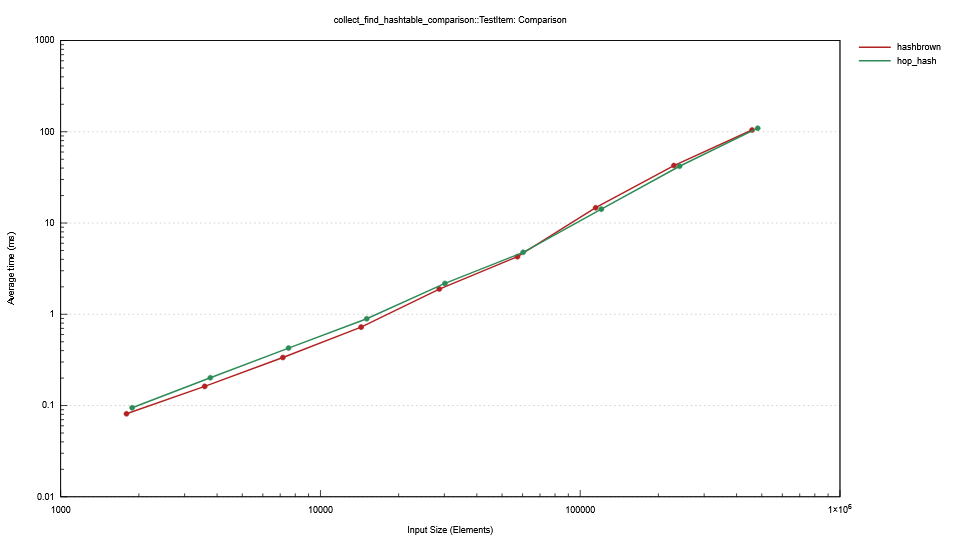
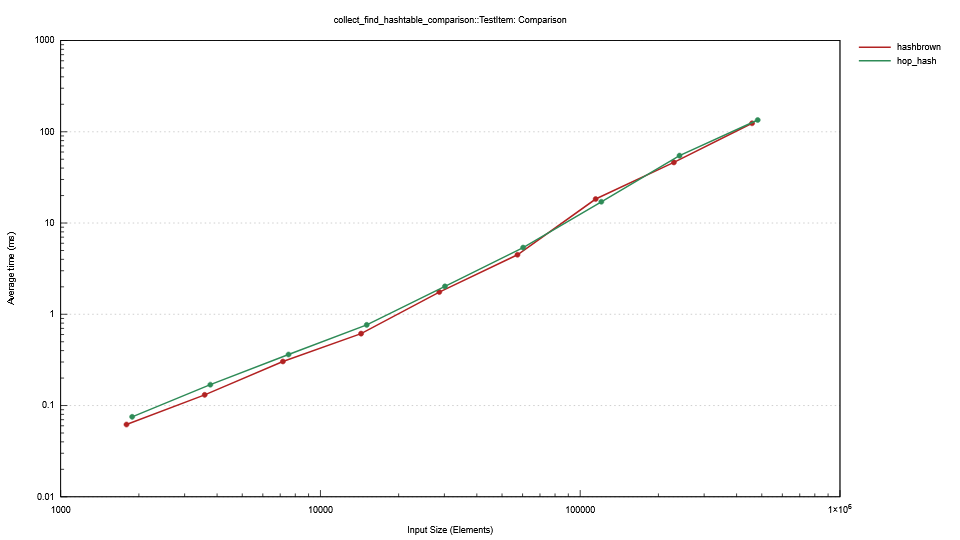
Redo methodology for collect/mixed workloads
- Collect now has two separate vectors, both randomized for insert/lookup. Unfortunately, this makes hop-hash look worse :(
- probabilistic now fills up to the table size before running the benchmark. This makes hop-hash look slightly better :)

diff --git a/benches/hashtable_comparison.rs b/benches/hashtable_comparison.rs
@@ -289,13 +289,21 @@ fn bench_collect_find<TestItem: KeyValuePair, const MAX_SIZE: usize>(c: &mut Cri
             })
             .collect::<Vec<(u64, TestItem)>>();
 
+        let lookup_hash_and_item = hash_and_item.clone();
+
         group.throughput(Throughput::Elements(hop_capacity as u64));
         group.bench_function("hop_hash", |b| {
             b.iter_batched(
-                || hash_and_item.clone(),
-                |hash_and_item| {
+                || {
+                    let mut hash_and_item = hash_and_item.clone();
+                    hash_and_item.shuffle(&mut SmallRng::from_os_rng());
+                    let mut lookup_hash_and_item = lookup_hash_and_item.clone();
+                    lookup_hash_and_item.shuffle(&mut SmallRng::from_os_rng());
+                    (hash_and_item, lookup_hash_and_item)
+                },
+                |(hash_and_item, lookup_hash_and_item)| {
                     let mut table = HopHashTable::<TestItem>::with_capacity(0);
-                    for (hash, item) in hash_and_item.iter().take(hop_capacity).cloned() {
+                    for (hash, item) in hash_and_item.into_iter().take(hop_capacity) {
                         match table.entry(hash, |v| v.eq_key(&item), |v| v.hash_key()) {
                             hop_hash::hash_table::Entry::Vacant(entry) => {
                                 entry.insert(item);
@@ -304,7 +312,7 @@ fn bench_collect_find<TestItem: KeyValuePair, const MAX_SIZE: usize>(c: &mut Cri
                         }
                     }
 
-                    for (hash, item) in hash_and_item.iter().take(hop_capacity) {
+                    for (hash, item) in lookup_hash_and_item.iter().take(hop_capacity) {
                         let result = table.find(*hash, |v| v.eq_key(item));
                         black_box(result);
                     }
@@ -317,10 +325,16 @@ fn bench_collect_find<TestItem: KeyValuePair, const MAX_SIZE: usize>(c: &mut Cri
         group.throughput(Throughput::Elements(hashbrown_capacity as u64));
         group.bench_function("hashbrown", |b| {
             b.iter_batched(
-                || hash_and_item.clone(),
-                |hash_and_item| {
+                || {
+                    let mut hash_and_item = hash_and_item.clone();
+                    hash_and_item.shuffle(&mut SmallRng::from_os_rng());
+                    let mut lookup_hash_and_item = lookup_hash_and_item.clone();
+                    lookup_hash_and_item.shuffle(&mut SmallRng::from_os_rng());
+                    (hash_and_item, lookup_hash_and_item)
+                },
+                |(hash_and_item, lookup_hash_and_item)| {
                     let mut table = HashbrownHashTable::<TestItem>::with_capacity(0);
-                    for (hash, item) in hash_and_item.iter().take(hashbrown_capacity).cloned() {
+                    for (hash, item) in hash_and_item.into_iter().take(hashbrown_capacity) {
                         match table.entry(hash, |v| v.eq_key(&item), |v| v.hash_key()) {
                             HashbrownEntry::Vacant(entry) => {
                                 entry.insert(item);
@@ -329,7 +343,7 @@ fn bench_collect_find<TestItem: KeyValuePair, const MAX_SIZE: usize>(c: &mut Cri
                         }
                     }
 
-                    for (hash, item) in hash_and_item.iter().take(hashbrown_capacity) {
+                    for (hash, item) in lookup_hash_and_item.iter().take(hashbrown_capacity) {
                         let result = table.find(*hash, |v| v.eq_key(item));
                         black_box(result);
                     }
@@ -365,13 +379,21 @@ fn bench_collect_find_preallocated<TestItem: KeyValuePair, const MAX_SIZE: usize
             })
             .collect::<Vec<(u64, TestItem)>>();
 
+        let lookup_hash_and_item = hash_and_item.clone();
+
         group.throughput(Throughput::Elements(hop_capacity as u64));
         group.bench_function("hop_hash", |b| {
             b.iter_batched(
-                || hash_and_item.clone(),
-                |hash_and_item| {
+                || {
+                    let mut hash_and_item = hash_and_item.clone();
+                    hash_and_item.shuffle(&mut SmallRng::from_os_rng());
+                    let mut lookup_hash_and_item = lookup_hash_and_item.clone();
+                    lookup_hash_and_item.shuffle(&mut SmallRng::from_os_rng());
+                    (hash_and_item, lookup_hash_and_item)
+                },
+                |(hash_and_item, lookup_hash_and_item)| {
                     let mut table = HopHashTable::<TestItem>::with_capacity(*size);
-                    for (hash, item) in hash_and_item.iter().take(hop_capacity).cloned() {
+                    for (hash, item) in hash_and_item.into_iter().take(hop_capacity) {
                         match table.entry(hash, |v| v.eq_key(&item), |v| v.hash_key()) {
                             hop_hash::hash_table::Entry::Vacant(entry) => {
                                 entry.insert(item);
@@ -380,7 +402,7 @@ fn bench_collect_find_preallocated<TestItem: KeyValuePair, const MAX_SIZE: usize
                         }
                     }
 
-                    for (hash, item) in hash_and_item.iter().take(hop_capacity) {
+                    for (hash, item) in lookup_hash_and_item.iter().take(hop_capacity) {
                         let result = table.find(*hash, |v| v.eq_key(item));
                         black_box(result);
                     }
@@ -393,10 +415,16 @@ fn bench_collect_find_preallocated<TestItem: KeyValuePair, const MAX_SIZE: usize
         group.throughput(Throughput::Elements(hashbrown_capacity as u64));
         group.bench_function("hashbrown", |b| {
             b.iter_batched(
-                || hash_and_item.clone(),
-                |hash_and_item| {
+                || {
+                    let mut hash_and_item = hash_and_item.clone();
+                    hash_and_item.shuffle(&mut SmallRng::from_os_rng());
+                    let mut lookup_hash_and_item = lookup_hash_and_item.clone();
+                    lookup_hash_and_item.shuffle(&mut SmallRng::from_os_rng());
+                    (hash_and_item, lookup_hash_and_item)
+                },
+                |(hash_and_item, lookup_hash_and_item)| {
                     let mut table = HashbrownHashTable::<TestItem>::with_capacity(*size);
-                    for (hash, item) in hash_and_item.iter().take(hashbrown_capacity).cloned() {
+                    for (hash, item) in hash_and_item.into_iter().take(hashbrown_capacity) {
                         match table.entry(hash, |v| v.eq_key(&item), |v| v.hash_key()) {
                             HashbrownEntry::Vacant(entry) => {
                                 entry.insert(item);
@@ -404,7 +432,7 @@ fn bench_collect_find_preallocated<TestItem: KeyValuePair, const MAX_SIZE: usize
                             HashbrownEntry::Occupied(_) => unreachable!(),
                         }
                     }
-                    for (hash, item) in hash_and_item.iter().take(hashbrown_capacity) {
+                    for (hash, item) in lookup_hash_and_item.iter().take(hashbrown_capacity) {
                         let result = table.find(*hash, |v| v.eq_key(item));
                         black_box(result);
                     }
@@ -1093,6 +1121,15 @@ fn bench_mixed_probabilistic<TestItem: KeyValuePair, const MAX_SIZE: usize>(c: &
         let hop_capacity = HopHashTable::<TestItem>::with_capacity(*size).capacity();
         let hashbrown_capacity = HashbrownHashTable::<TestItem>::with_capacity(*size).capacity();
 
+        let prefill_data = (0..hop_capacity.max(hashbrown_capacity))
+            .map(|i| {
+                let key = i as u64;
+                let item = TestItem::new(key);
+                let hash = item.hash_key();
+                (hash, item)
+            })
+            .collect::<Vec<(u64, TestItem)>>();
+
         let mut rng = SmallRng::from_os_rng();
 
         let operations = (0..hop_capacity.max(hashbrown_capacity) * 3)
@@ -1117,12 +1154,21 @@ fn bench_mixed_probabilistic<TestItem: KeyValuePair, const MAX_SIZE: usize>(c: &
         group.bench_function("hop_hash", |b| {
             b.iter_batched(
                 || {
+                    let mut table = HopHashTable::<TestItem>::with_capacity(0);
+                    for (hash, item) in prefill_data.iter().take(hop_capacity).cloned() {
+                        match table.entry(hash, |v| v.eq_key(&item), |v| v.hash_key()) {
+                            hop_hash::hash_table::Entry::Vacant(entry) => {
+                                entry.insert(item);
+                            }
+                            hop_hash::hash_table::Entry::Occupied(_) => unreachable!(),
+                        }
+                    }
+
                     let mut operations = operations.clone();
                     operations.shuffle(&mut SmallRng::from_os_rng());
-                    operations
+                    (table, operations)
                 },
-                |operations| {
-                    let mut table = HopHashTable::<TestItem>::with_capacity(0);
+                |(mut table, operations)| {
                     for operation in operations.into_iter().take(hop_capacity * 3) {
                         match operation {
                             Operation::Insert => {
@@ -1168,12 +1214,21 @@ fn bench_mixed_probabilistic<TestItem: KeyValuePair, const MAX_SIZE: usize>(c: &
         group.bench_function("hashbrown", |b| {
             b.iter_batched(
                 || {
+                    let mut table = HashbrownHashTable::<TestItem>::with_capacity(0);
+                    for (hash, item) in prefill_data.iter().take(hashbrown_capacity).cloned() {
+                        match table.entry(hash, |v| v.eq_key(&item), |v| v.hash_key()) {
+                            HashbrownEntry::Vacant(entry) => {
+                                entry.insert(item);
+                            }
+                            HashbrownEntry::Occupied(_) => unreachable!(),
+                        }
+                    }
+
                     let mut operations = operations.clone();
                     operations.shuffle(&mut SmallRng::from_os_rng());
-                    operations
+                    (table, operations)
                 },
-                |operations| {
-                    let mut table = HashbrownHashTable::<TestItem>::with_capacity(0);
+                |(mut table, operations)| {
                     for operation in operations.into_iter().take(hashbrown_capacity * 3) {
                         match operation {
                             Operation::Insert => {
@@ -1235,6 +1290,15 @@ fn bench_mixed_probabilistic_zipf<TestItem: KeyValuePair, const MAX_SIZE: usize>
             let hashbrown_capacity =
                 HashbrownHashTable::<TestItem>::with_capacity(*size).capacity();
 
+            let prefill_data = (0..hop_capacity.max(hashbrown_capacity))
+                .map(|i| {
+                    let key = i as u64;
+                    let item = TestItem::new(key);
+                    let hash = item.hash_key();
+                    (hash, item)
+                })
+                .collect::<Vec<(u64, TestItem)>>();
+
             let mut rng = SmallRng::from_os_rng();
 
             let op_distr = Zipf::new(3.0, exponent).unwrap();
@@ -1261,12 +1325,21 @@ fn bench_mixed_probabilistic_zipf<TestItem: KeyValuePair, const MAX_SIZE: usize>
             group.bench_function("hop_hash", |b| {
                 b.iter_batched(
                     || {
+                        let mut table = HopHashTable::<TestItem>::with_capacity(0);
+                        for (hash, item) in prefill_data.iter().take(hop_capacity).cloned() {
+                            match table.entry(hash, |v| v.eq_key(&item), |v| v.hash_key()) {
+                                hop_hash::hash_table::Entry::Vacant(entry) => {
+                                    entry.insert(item);
+                                }
+                                hop_hash::hash_table::Entry::Occupied(_) => unreachable!(),
+                            }
+                        }
+
                         let mut operations = operations.clone();
                         operations.shuffle(&mut SmallRng::from_os_rng());
-                        operations
+                        (table, operations)
                     },
-                    |operations| {
-                        let mut table = HopHashTable::<TestItem>::with_capacity(0);
+                    |(mut table, operations)| {
                         for operation in operations.into_iter().take(hop_capacity * 3) {
                             match operation {
                                 Operation::Insert => {
@@ -1313,12 +1386,21 @@ fn bench_mixed_probabilistic_zipf<TestItem: KeyValuePair, const MAX_SIZE: usize>
             group.bench_function("hashbrown", |b| {
                 b.iter_batched(
                     || {
+                        let mut table = HashbrownHashTable::<TestItem>::with_capacity(0);
+                        for (hash, item) in prefill_data.iter().take(hashbrown_capacity).cloned() {
+                            match table.entry(hash, |v| v.eq_key(&item), |v| v.hash_key()) {
+                                HashbrownEntry::Vacant(entry) => {
+                                    entry.insert(item);
+                                }
+                                HashbrownEntry::Occupied(_) => unreachable!(),
+                            }
+                        }
+
                         let mut operations = operations.clone();
                         operations.shuffle(&mut SmallRng::from_os_rng());
-                        operations
+                        (table, operations)
                     },
-                    |operations| {
-                        let mut table = HashbrownHashTable::<TestItem>::with_capacity(0);
+                    |(mut table, operations)| {
                         for operation in operations.into_iter().take(hashbrown_capacity * 3) {
                             match operation {
                                 Operation::Insert => {
